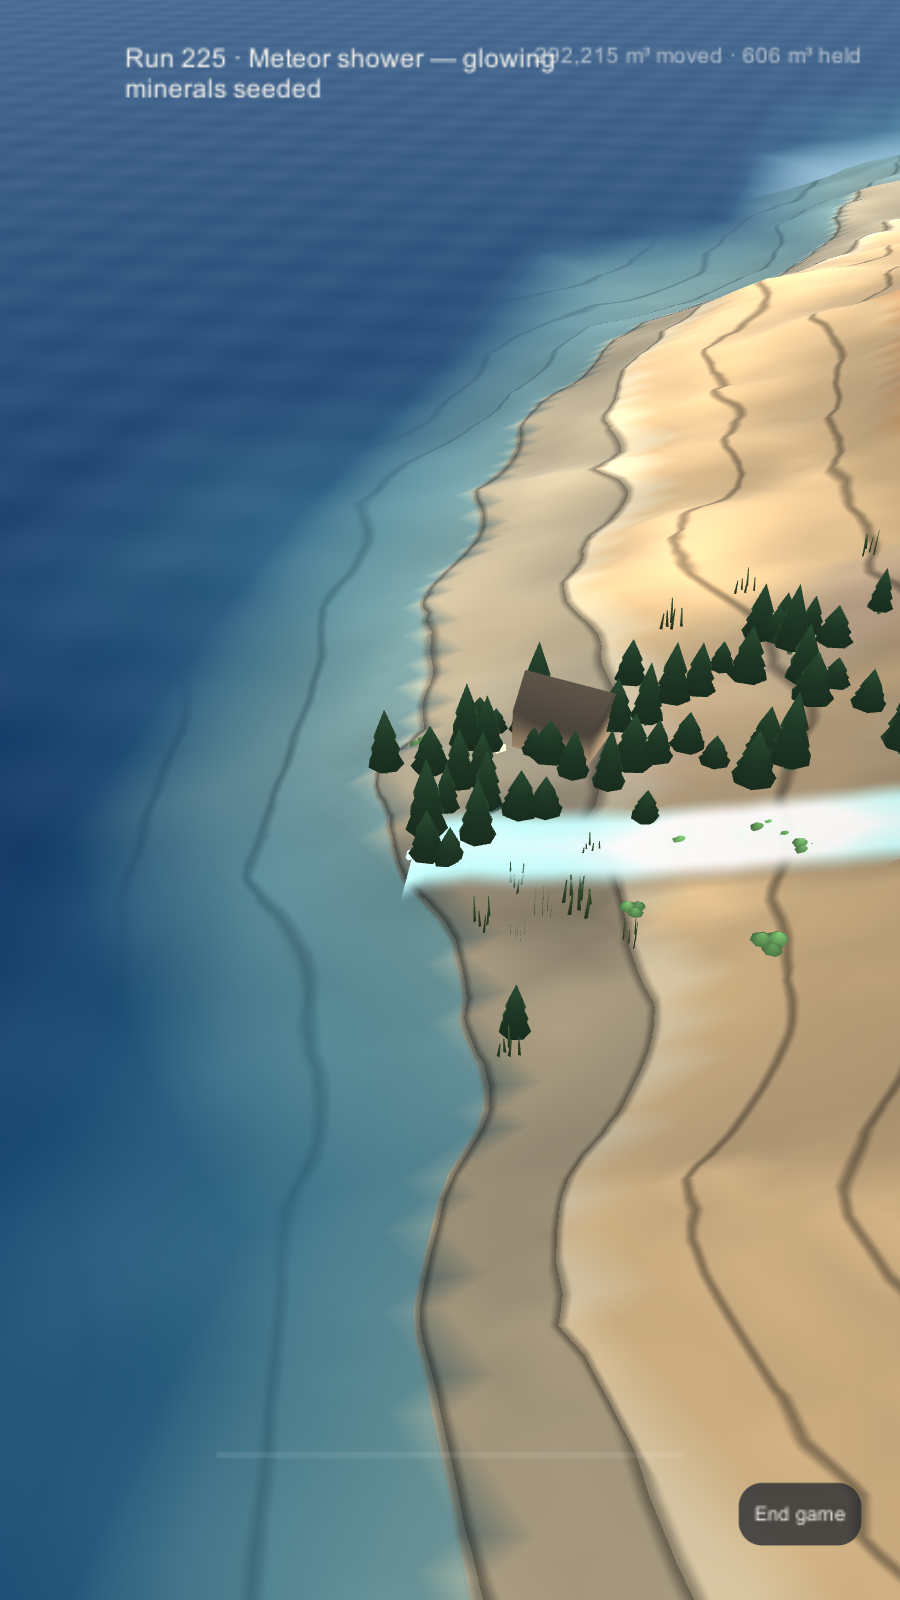
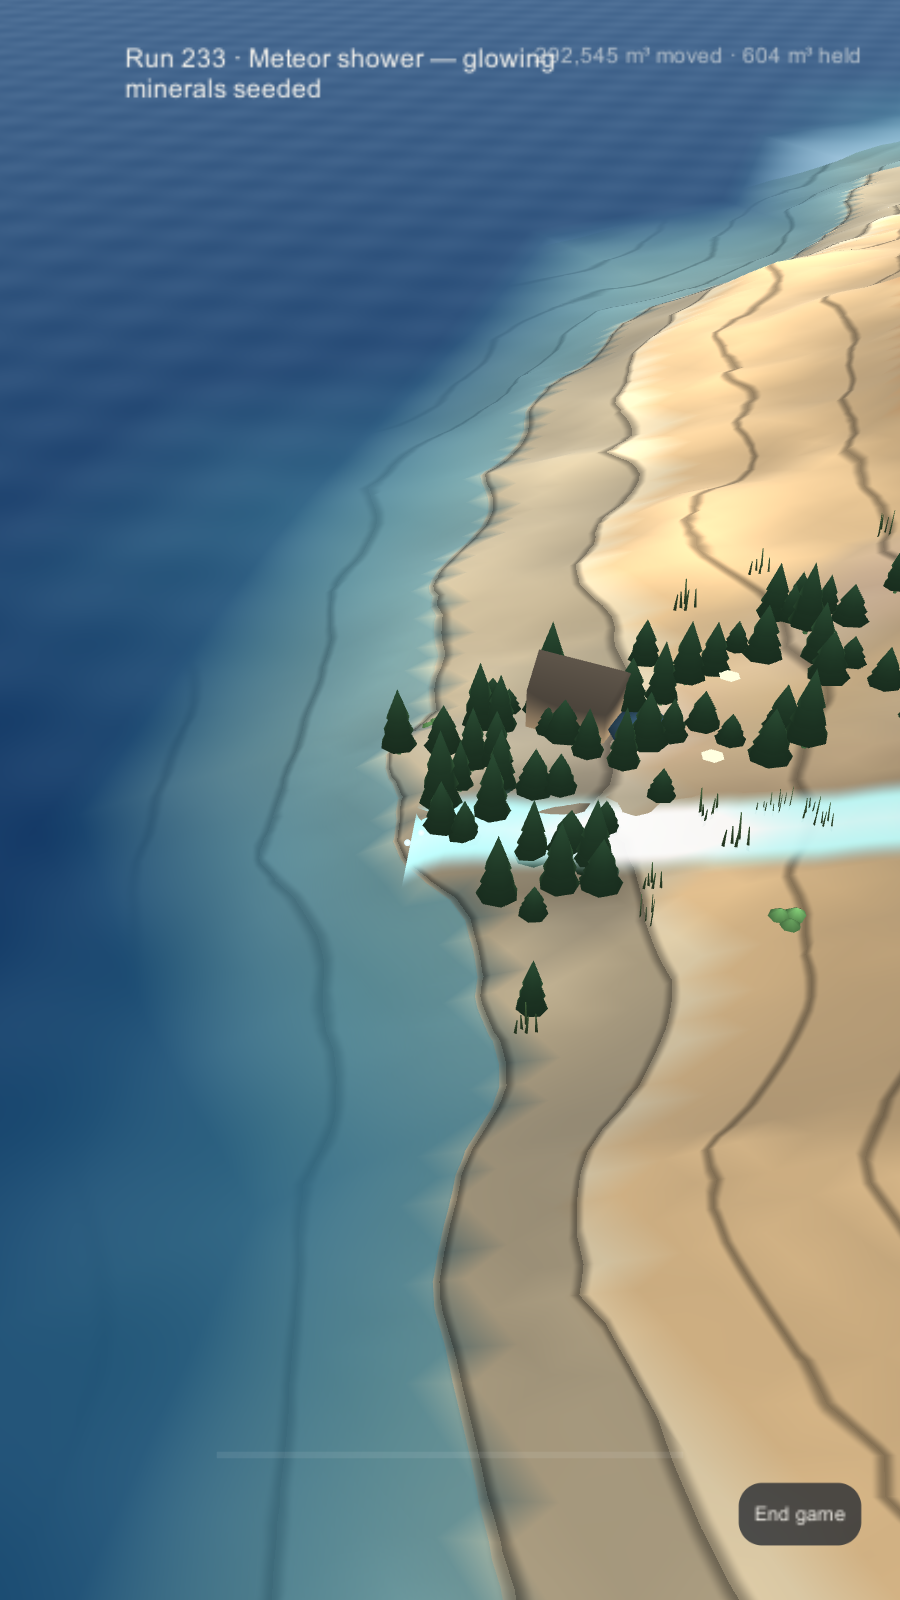
fix(meta,flow): Share saves a findable screenshot; the time-lapse shows history only
Share wrote its images beside the save file — a folder no person has
ever opened — so the visible result of pressing it was a wall of emoji
on the clipboard and apparently nothing else. Reported exactly that
way. Images now land in ~/Desktop/RILL on desktop (beside the save on
phones until the platform share sheet arrives with L-022) and the hint
names the destination. ScreenCapture.CaptureScreenshot was the second
finding: the probe caught it writing nothing — asynchronous, silently
fileless without a swap chain. The postcard now renders camera + HUD
synchronously (the probe's own shot technique, canvas restored after),
so 'saved' means bytes on disk before the hint says so. Probe asserts
the file: 422 KB PNG on the Desktop, then cleans up its litter. The
clipboard keeps the glyph text — an image on the clipboard needs
native code per platform, same bucket as the share sheet.

Time-lapse: ribbon and spray were the remaining today-leaks after the
props fix — the last run's wake sat frozen over the whole playback,
and spray outlives its burst. Playback entry clears both
(SplashFX.Clear kills live particles), so it starts from a visually
empty world: history only. play_timelapse.png regenerated bare.

Probe: 0 failed, 0 runtime errors.

diff --git a/Assets/Scripts/Flow/RunController.cs b/Assets/Scripts/Flow/RunController.cs
@@ -1214,9 +1214,14 @@ namespace Rill.Flow
             Pooled.gameObject.SetActive(false);
             // Props draw themselves from Update, so hiding the terrain does not hide them: the
             // probe photographed today's trees floating over the mountain of two hundred runs ago.
+            // The ribbon and spray are the same class of leak — the last run's wake would sit
+            // frozen over the whole playback, and spray outlives its burst — so the playback
+            // starts from a visually empty world: history only, nothing of today.
             if (Ecosystem != null) Ecosystem.enabled = false;
             if (Revelation != null) Revelation.enabled = false;
             if (Pickups != null) Pickups.enabled = false;
+            Ribbon.Clear();
+            if (Fx != null) Fx.Clear();
             Hud.SetIdleUI(false);
             _lapseGrace = Time.time + 0.4f;
             Current = State.TimeLapse;
@@ -1398,10 +1403,14 @@ namespace Rill.Flow
 
             GUIUtility.systemCopyBuffer = text;
 
-            // Postcard: a one-tap beauty shot, saved next to the save file.
-            string shot = System.IO.Path.Combine(SaveSystem.RootDir,
-                string.Format("postcard_run{0}.png", Active.RunNumber));
-            ScreenCapture.CaptureScreenshot(shot);
+            // Postcard: the screen as it stands, UI and all. It used to be saved next to the save
+            // file — a folder no person has ever opened — so the visible result of pressing Share
+            // was a wall of emoji on the clipboard and, apparently, nothing else. Reported exactly
+            // that way. The image cannot go on the clipboard without native code per platform, so
+            // it goes where a person will actually find it, and the hint says where.
+            string dir = ShareDir();
+            SavePostcard(System.IO.Path.Combine(dir,
+                string.Format("postcard_run{0}.png", Active.RunNumber)));
 
             // The share card: the run's own path over the mountain, composed pixel by pixel so it
             // is identical on every device and provable headless. Only when there is a run to
@@ -1412,14 +1421,82 @@ namespace Rill.Flow
                 string record = string.Format("{0:n0} m³ moved · {1:n0} m³ to the sea",
                     Active.LifetimeSediment, Active.LifetimeWaterToSea);
                 byte[] png = ShareCard.Render(Active, _lastPath, title, record);
-                string cardPath = System.IO.Path.Combine(SaveSystem.RootDir,
-                    string.Format("card_run{0}.png", _lastReport.RunNumber));
-                System.IO.File.WriteAllBytes(cardPath, png);
-                Hud.SetHint("Copied to clipboard · postcard and card saved");
+                System.IO.File.WriteAllBytes(System.IO.Path.Combine(dir,
+                    string.Format("card_run{0}.png", _lastReport.RunNumber)), png);
+                Hud.SetHint(ShareHint(true));
                 return;
             }
 
-            Hud.SetHint("Copied to clipboard · postcard saved");
+            Hud.SetHint(ShareHint(false));
+        }
+
+        /// <summary>
+        /// Where Share puts its images: somewhere a person will actually look. On a phone that
+        /// is still beside the save until the platform share sheet exists (with L-022); on a
+        /// desktop it is a RILL folder on the Desktop, because "saved" with no findable file is
+        /// indistinguishable from "did nothing".
+        /// </summary>
+        static string ShareDir()
+        {
+#if UNITY_IOS || UNITY_ANDROID
+            string dir = SaveSystem.RootDir;
+#else
+            string dir = System.IO.Path.Combine(
+                System.Environment.GetFolderPath(System.Environment.SpecialFolder.DesktopDirectory), "RILL");
+#endif
+            System.IO.Directory.CreateDirectory(dir);
+            return dir;
+        }
+
+        /// <summary>
+        /// The screen as it stands — world and HUD — rendered synchronously to a PNG.
+        /// ScreenCapture.CaptureScreenshot was the first attempt and the probe caught it writing
+        /// nothing: it is asynchronous and silently produces no file without a swap chain, which
+        /// is indistinguishable from working until someone goes looking for the picture. This
+        /// renders through the camera the way the probe's own shots do, so "saved" means the
+        /// bytes are on disk before the hint says so.
+        /// </summary>
+        void SavePostcard(string path)
+        {
+            var cam = Cam != null ? Cam.Cam : null;
+            if (cam == null || Hud == null) return;
+
+            int w = Screen.width >= 64 ? Screen.width : 900;
+            int h = Screen.height >= 64 ? Screen.height : 1600;
+            var rt = new RenderTexture(w, h, 24, RenderTextureFormat.ARGB32) { antiAliasing = 4 };
+            var tex = new Texture2D(w, h, TextureFormat.RGB24, false);
+            var prev = cam.targetTexture;
+            Hud.RenderThroughCamera(cam);
+            try
+            {
+                cam.targetTexture = rt;
+                Canvas.ForceUpdateCanvases();
+                cam.Render();
+                RenderTexture.active = rt;
+                tex.ReadPixels(new Rect(0, 0, w, h), 0, 0);
+                tex.Apply();
+                System.IO.File.WriteAllBytes(path, tex.EncodeToPNG());
+            }
+            finally
+            {
+                RenderTexture.active = null;
+                cam.targetTexture = prev;
+                Hud.RenderOverlay();
+                Destroy(tex);
+                rt.Release();
+                Destroy(rt);
+            }
+        }
+
+        static string ShareHint(bool withCard)
+        {
+#if UNITY_IOS || UNITY_ANDROID
+            return withCard ? "Postcard and card saved · glyph copied" : "Postcard saved · glyph copied";
+#else
+            return withCard
+                ? "Saved to Desktop/RILL — screenshot and card · glyph copied"
+                : "Saved to Desktop/RILL — screenshot · glyph copied";
+#endif
         }
 
         void OnApplicationPause(bool paused)

diff --git a/Assets/Editor/RillPlayProbe.cs b/Assets/Editor/RillPlayProbe.cs
@@ -202,10 +202,15 @@ namespace Rill.EditorTools
                     Check(Click(hud, "Start"), "Begin can be pressed a second time");
                     Next(); return;
 
-                // Start a run purely to abandon it.
+                // Start a run purely to abandon it — but first, Share, so the next phase can
+                // check the postcard is a real file somewhere a person can find. It used to be
+                // written beside the save, and the visible result of pressing Share was a wall
+                // of emoji on the clipboard and apparently nothing else — reported exactly so.
                 case 9:
                     if (inPhase < 1.0f) return;
                     Check(runner.Current == RunController.State.Idle, "back on the mountain, state=" + runner.Current);
+                    SessionState.SetInt("rill_probe_sharerun", runner.Active.RunNumber);
+                    Check(Click(hud, "BtnShare"), "Share can be pressed");
                     typeof(RunController).GetMethod("StartRun", BindingFlags.NonPublic | BindingFlags.Instance)
                                          .Invoke(runner, null);
                     Next(); return;
@@ -216,6 +221,22 @@ namespace Rill.EditorTools
                 // impossible to do. (L-052)
                 case 10:
                     if (inPhase < 1.2f) return;
+                    // The postcard Share wrote a moment ago: a real file, findable, non-trivial.
+                    {
+                        string dir = System.IO.Path.Combine(
+                            System.Environment.GetFolderPath(System.Environment.SpecialFolder.DesktopDirectory), "RILL");
+                        string postcard = System.IO.Path.Combine(dir,
+                            "postcard_run" + SessionState.GetInt("rill_probe_sharerun", -1) + ".png");
+                        bool exists = System.IO.File.Exists(postcard);
+                        long size = exists ? new System.IO.FileInfo(postcard).Length : 0;
+                        Check(exists && size > 50000,
+                              "Share saved a real screenshot where a person can find it — " + postcard + " (" + size + " bytes)");
+                        // The probe cleans up after itself; the feature's litter belongs to players.
+                        if (exists) System.IO.File.Delete(postcard);
+                        string card = System.IO.Path.Combine(dir,
+                            "card_run" + SessionState.GetInt("rill_probe_sharerun", -1) + ".png");
+                        if (System.IO.File.Exists(card)) System.IO.File.Delete(card);
+                    }
                     Check(runner.Current == RunController.State.Flowing, "the run is live, state=" + runner.Current);
                     Check(Visible(hud, "BtnEnd game"), "End game is visible mid-run — " + Describe(hud, "BtnEnd game"));
                     Shot(hud, "play_endgame_midrun.png");

diff --git a/Assets/Scripts/UI/HudController.cs b/Assets/Scripts/UI/HudController.cs
@@ -61,6 +61,14 @@ namespace Rill.UI
             _canvas.planeDistance = 1f;
         }
 
+        /// <summary>Back to the normal overlay after an offscreen capture borrowed the canvas.</summary>
+        public void RenderOverlay()
+        {
+            if (_canvas == null) return;
+            _canvas.renderMode = RenderMode.ScreenSpaceOverlay;
+            _canvas.worldCamera = null;
+        }
+
         public bool ReportVisible { get; private set; }
         public bool PanelVisible { get; private set; }
 

diff --git a/Assets/Scripts/Render/SplashFX.cs b/Assets/Scripts/Render/SplashFX.cs
@@ -57,6 +57,12 @@ namespace Rill.Render
             _ps.Stop();
         }
 
+        /// <summary>Kills every live particle. The time-lapse must show history, not today's spray.</summary>
+        public void Clear()
+        {
+            if (_ps != null) _ps.Stop(true, ParticleSystemStopBehavior.StopEmittingAndClear);
+        }
+
         public void Burst(Vector3 world, float strength, Color color)
         {
             if (_ps == null) return;
